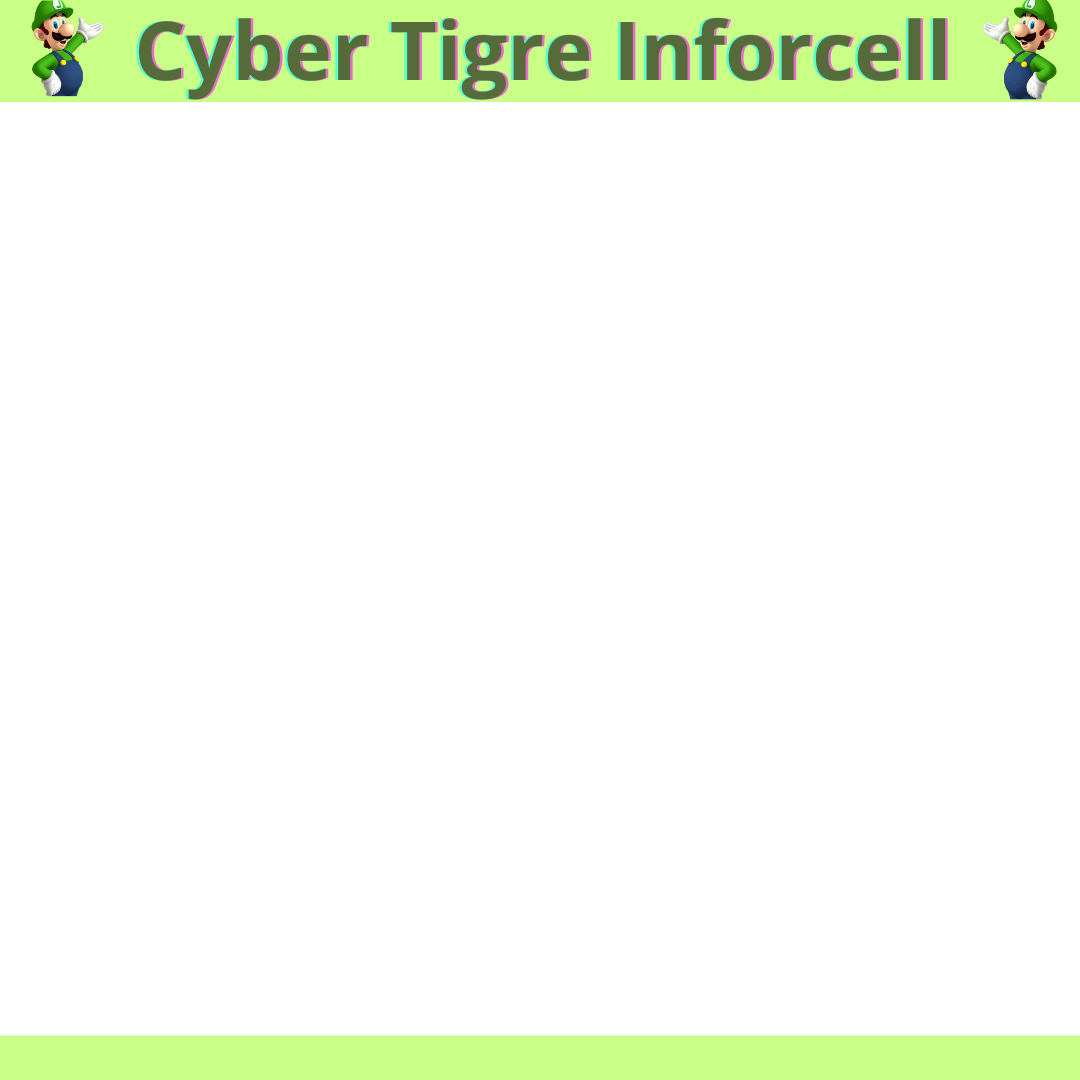
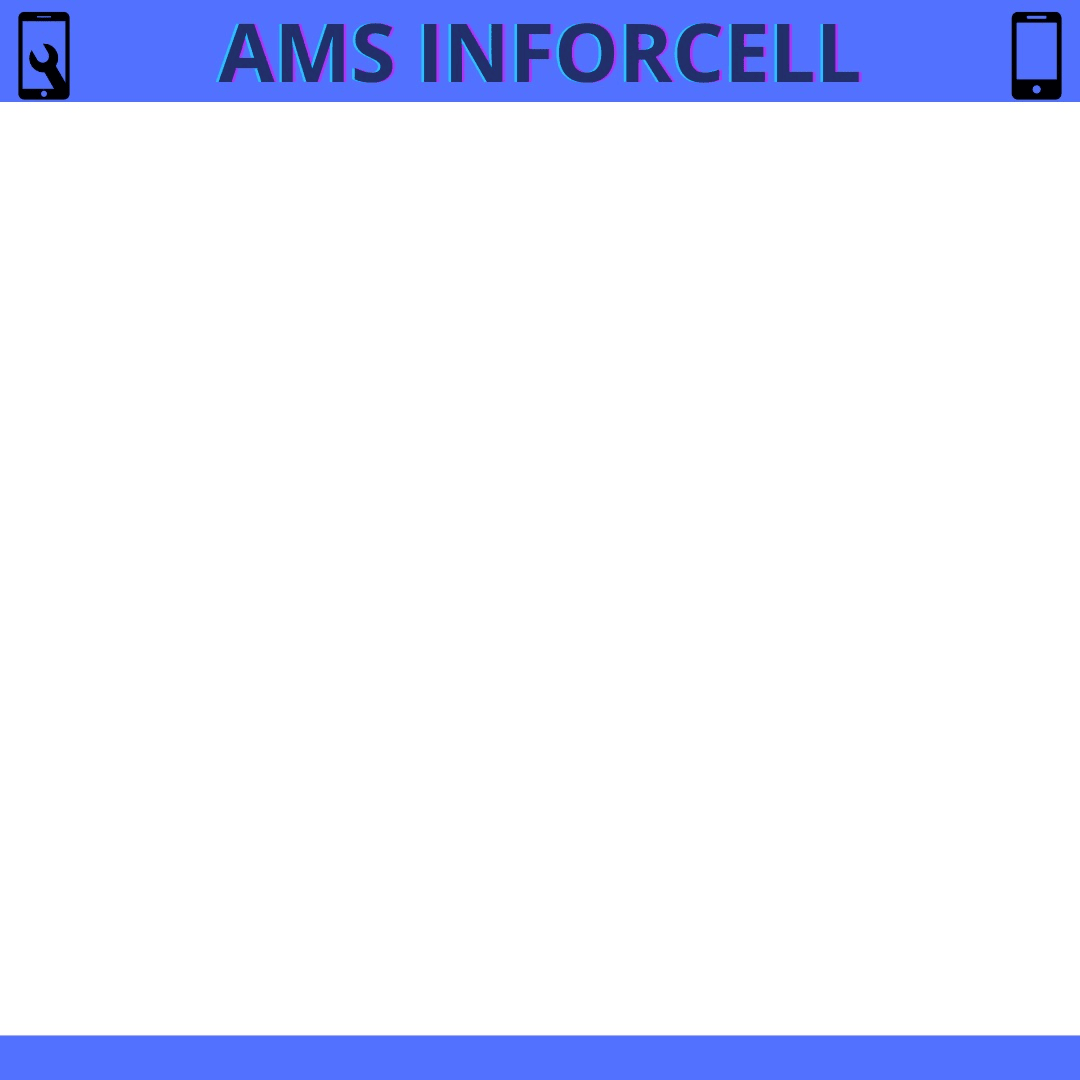
Troca de design, README.md e ajuste na CadastroPedidoController.java

Changed region(s): [[0.0, 0.0, 1.0, 0.0917], [0.0, 0.9472, 1.0, 1.0]]

diff --git a/src/main/java/org/acgprojeto/view/controller/CadastroPedidoController.java b/src/main/java/org/acgprojeto/view/controller/CadastroPedidoController.java
@@ -224,18 +224,7 @@ public class CadastroPedidoController implements Initializable {
             btnAdicionarProduto.setDisable(false);
 
 
-
-            if (tipo.equals(Tipo.COMPRA) || tipo.equals(Tipo.VENDA)){
-                PedidoDTO pedido = pedidoController.obterUltimoPedido();
-                if (tipo.equals(Tipo.COMPRA)){
-                    Optional<ButtonType> opcaoCompra = Alertas.showConfirmation("Pedido de compra criado", "Compra feita! Se for um produto, deseja cadastrar ao estoque?");
-                    if (opcaoCompra.isPresent() && opcaoCompra.get() == ButtonType.OK) {
-                        abrirTelaCadastroProduto();
-                    }
-                }
-                pedido.setEstado(Estado.FINALIZADO);
-                pedidoController.atualizarPedido(pedido);
-            }
+            verificarTipoServico(tipo);
 
             notificarOuvintes();
 
@@ -344,6 +333,8 @@ public class CadastroPedidoController implements Initializable {
             String tipoServico = choiceBoxTipoServico.getValue();
             Tipo tipo = TipoStringParaEnum(tipoServico);
 
+            verificarTipoServico(tipo);
+
             try {
                 ServicoDTO servicoDTO = new ServicoDTO(
                         null,
@@ -359,6 +350,19 @@ public class CadastroPedidoController implements Initializable {
             } catch (ValidacaoException e) {
                 Alertas.mostrarAlerta("ERRO", e.getMessage(), Alert.AlertType.ERROR);
             }
+        }
+    }
+
+    private void verificarTipoServico(Tipo tipo) {
+        if (tipo.equals(Tipo.COMPRA) || tipo.equals(Tipo.VENDA)){
+            PedidoDTO pedido = pedidoController.obterUltimoPedido();
+            if (tipo.equals(Tipo.COMPRA)){
+                Optional<ButtonType> opcaoCompra = Alertas.showConfirmation("Pedido de compra criado", "Compra feita! Se for um produto, deseja cadastrar ao estoque?");
+                if (opcaoCompra.isPresent() && opcaoCompra.get() == ButtonType.OK) {
+                    abrirTelaCadastroProduto();
+                }
+            }
+            pedidoController.atualizarPedido(pedido);
         }
     }
 

diff --git a/README.md b/README.md
@@ -28,63 +28,70 @@ CREATE DATABASE lojaeletronicos;
 ### 3 - Crie as tabelas uma por uma, não faça de uma vez
 
 ````sql
-CREATE TABLE admin (
+CREATE TABLE admin
+(
     Id_Admin INT PRIMARY KEY AUTO_INCREMENT,
-    Nome VARCHAR(100) NOT NULL,
-    Email VARCHAR(100) NOT NULL UNIQUE,
-    Senha VARCHAR(255) NOT NULL
+    Nome     VARCHAR(100) NOT NULL,
+    Email    VARCHAR(100) NOT NULL UNIQUE,
+    Senha    VARCHAR(255) NOT NULL
 );
 ````
 
 ````sql
-CREATE TABLE Cliente(
-    Id_Cliente SMALLINT PRIMARY KEY,
-    Nome VARCHAR(100) NOT NULL,
-    Email VARCHAR(50),
-    Telefone VARCHAR(10)
+CREATE TABLE Cliente
+(
+    Id_Cliente SMALLINT AUTO_INCREMENT PRIMARY KEY,
+    Nome       VARCHAR(100) NOT NULL,
+    Email      VARCHAR(50),
+    Telefone   VARCHAR(10)
 );
 ````
 
 ````sql
-CREATE TABLE Pedido (
-    Id_Pedido SMALLINT AUTO_INCREMENT PRIMARY KEY,
+CREATE TABLE Pedido
+(
+    Id_Pedido  SMALLINT AUTO_INCREMENT PRIMARY KEY,
     Id_Cliente SMALLINT,
-    Estado VARCHAR(20) NOT NULL,
-    Data DATE NOT NULL,
+    Estado     VARCHAR(20) NOT NULL,
+    Data       DATE        NOT NULL,
     CONSTRAINT fk_Pedido_Cliente FOREIGN KEY (Id_Cliente) REFERENCES Cliente (Id_Cliente)
 );
+
 ````
 
 ````sql
-REATE TABLE Servico (
-    Id_Servico SMALLINT  AUTO_INCREMENT PRIMARY KEY,
-    Id_Pedido SMALLINT NOT NULL,
-    Descricao VARCHAR(255),
-    Preco DECIMAL NOT NULL,
-    Tipo VARCHAR(20) NOT NULL,
-    CONSTRAINT fk_Pedido FOREIGN KEY (Id_Pedido) REFERENCES Pedido (Id_Pedido)
+CREATE TABLE Servico
+(
+    Id_Servico SMALLINT AUTO_INCREMENT PRIMARY KEY,
+    Id_Pedido  SMALLINT       NOT NULL,
+    Descricao  VARCHAR(255),
+    Preco      DECIMAL(10, 2) NOT NULL,
+    Tipo       VARCHAR(20)    NOT NULL,
+    CONSTRAINT fk_Pedido_Servico FOREIGN KEY (Id_Pedido) REFERENCES Pedido (Id_Pedido)
 );
 ````
 
 ````sql
-CREATE TABLE Produto (
-    Id_Produto SMALLINT AUTO_INCREMENT PRIMARY KEY,
-    Nome VARCHAR(100) NOT NULL,
-    Categoria VARCHAR(50) NOT NULL,
-    Preco DECIMAL(10, 2) NOT NULL,
-    Quant_Estoque SMALLINT NOT NULL
+CREATE TABLE Produto
+(
+    Id_Produto    SMALLINT AUTO_INCREMENT PRIMARY KEY,
+    Nome          VARCHAR(100)   NOT NULL,
+    Categoria     VARCHAR(50)    NOT NULL,
+    Preco         DECIMAL(10, 2) NOT NULL,
+    Quant_Estoque SMALLINT       NOT NULL
 );
 ````
 
 ````sql
-CREATE TABLE Pedido_Possui_Produto (
-    Id_Pedido SMALLINT NOT NULL,
-    Id_Produto SMALLINT NOT NULL,
-    Preco DECIMAL(10, 2) NOT NULL,
-    Quant SMALLINT NOT NULL,
+CREATE TABLE Pedido_Possui_Produto
+(
+    Id_Pedido  SMALLINT       NOT NULL,
+    Id_Produto SMALLINT       NOT NULL,
+    Preco      DECIMAL(10, 2) NOT NULL,
+    Quant      SMALLINT       NOT NULL,
     PRIMARY KEY (Id_Pedido, Id_Produto),
-    CONSTRAINT fk_Pedido_Produto FOREIGN KEY (Id_Pedido) REFERENCES Pedido (Id_Pedido),
-    CONSTRAINT fk_Produto_Pedido FOREIGN KEY (Id_Produto) REFERENCES Produto (Id_Produto)
+    CONSTRAINT fk_Pedido_Produto FOREIGN KEY (Id_Pedido) REFERENCES Pedido (Id_Pedido) ON DELETE CASCADE,
+    CONSTRAINT fk_Produto_Pedido FOREIGN KEY (Id_Produto) REFERENCES Produto (Id_Produto) ON DELETE CASCADE
 );
 ````
 
